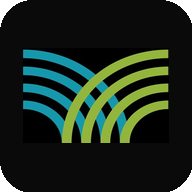
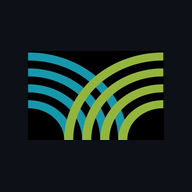
Aggiunta PWA e icone app

diff --git a/index.html b/index.html
@@ -42,12 +42,12 @@ html,body{height:100%;overflow:hidden;background:var(--dark);color:var(--text);f
   z-index:9999;padding:32px;
 }
 .login-logo {
-  width:72px;height:72px;
-  background:var(--red);
-  border-radius:20px;
+  width:100px;height:72px;
+  background:transparent;
+  border-radius:0;
   display:flex;align-items:center;justify-content:center;
   margin-bottom:24px;
-  box-shadow:0 0 40px rgba(230,57,70,0.4);
+  box-shadow:none;
 }
 .login-logo svg{width:40px;height:40px;fill:white;}
 .login-title {
@@ -107,8 +107,8 @@ html,body{height:100%;overflow:hidden;background:var(--dark);color:var(--text);f
   position:relative;z-index:100;
 }
 .app-logo{
-  width:32px;height:32px;
-  background:var(--red);border-radius:8px;
+  width:36px;height:32px;
+  background:transparent;border-radius:0;
   display:flex;align-items:center;justify-content:center;
   flex-shrink:0;
 }
@@ -716,8 +716,8 @@ textarea{resize:none;min-height:90px;}
 
 <!-- LOGIN -->
 <div id="login-screen">
-  <div class="login-logo">
-    <svg viewBox="0 0 24 24"><path d="M12 22s8-4 8-10V5l-8-3-8 3v7c0 6 8 10 8 10z"/></svg>
+  <div class="login-logo" style="background:transparent;box-shadow:none;padding:4px">
[1 lines of base64/hex data omitted]
   </div>
   <div class="login-title">CBSC Segnalazioni</div>
   <div class="login-sub">Consorzio di Bonifica della Sardegna Centrale</div>
@@ -736,8 +736,8 @@ textarea{resize:none;min-height:90px;}
 <!-- APP -->
 <div id="app">
   <div class="app-header">
-    <div class="app-logo">
-      <svg viewBox="0 0 24 24"><path d="M12 22s8-4 8-10V5l-8-3-8 3v7c0 6 8 10 8 10z"/></svg>
+    <div class="app-logo" style="background:transparent;padding:2px">
[1 lines of base64/hex data omitted]
     </div>
     <div class="app-title">CBSC <span>/ Guasti</span></div>
     <div class="zone-badge" id="header-zone" style="display:none"></div>
